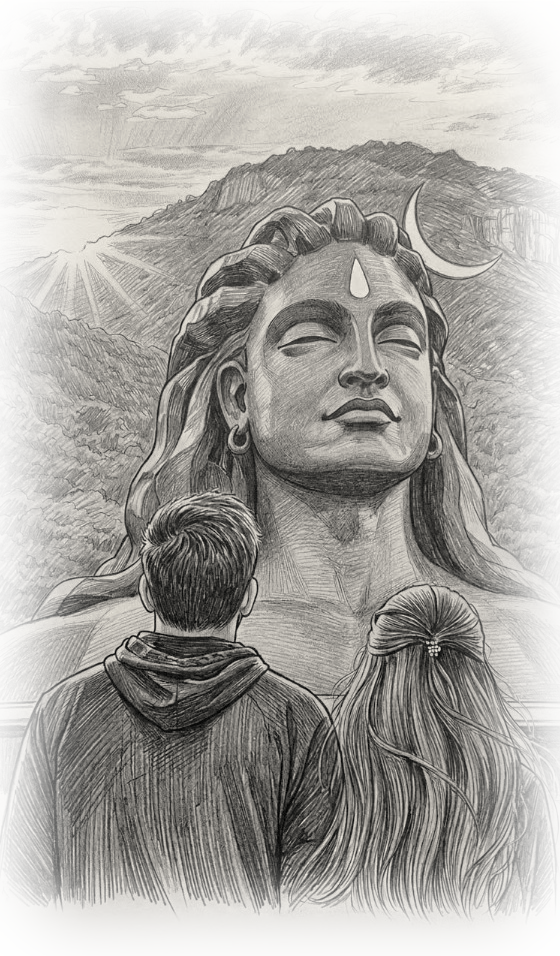
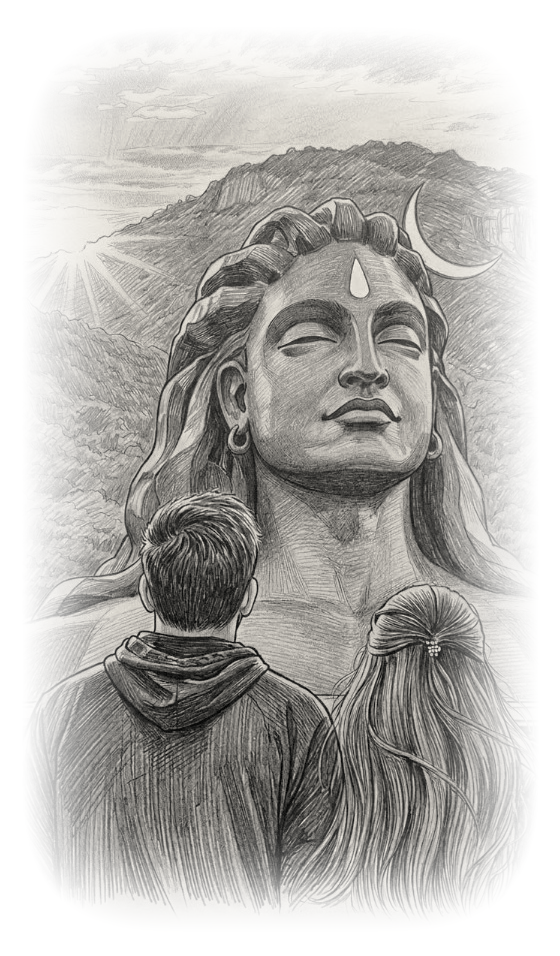
style(theme): remove card border and apply seamless radial-feathered mask to Adiyogi sketch

Changed region(s): [[0.0, 0.0, 1.0, 0.9707], [0.0304, 0.0, 0.3339, 0.2123]]

diff --git a/components/invite/aswgee.tsx b/components/invite/aswgee.tsx
@@ -938,41 +938,46 @@ export function AswgeeTheme({ invite }: { invite?: InviteData }) {
                   </p>
                 </div>
 
-                {/* SACRED ADIYOGI BLESSING & DEVOTIONAL ART MURAL */}
-                <div className="w-full max-w-[440px] my-8 py-5 px-3 sm:px-5 rounded-2xl bg-gradient-to-b from-[#FAF5EA]/90 via-[#F7EFE1]/80 to-[#FAF5EA]/90 border border-[#D4AF37]/45 shadow-[0_10px_35px_rgba(44,37,32,0.08)] flex flex-col items-center text-center relative overflow-hidden backdrop-blur-sm">
-                  {/* Subtle decorative radial background glow */}
-                  <div className="absolute top-0 inset-x-0 h-28 bg-gradient-to-b from-[#FFFDF8] to-transparent pointer-events-none opacity-60" />
-
+                {/* SACRED ADIYOGI BLESSING & DEVOTIONAL ART MURAL (BORDERLESS & SEAMLESSLY FEATHERED) */}
+                <div className="w-full max-w-[440px] my-10 flex flex-col items-center text-center relative select-none">
                   {/* Auspicious Crescent & Trishul Motif Header */}
-                  <div className="flex items-center gap-2 mb-1.5 z-10">
-                    <div className="w-7 h-[1px] bg-gradient-to-r from-transparent via-[#D4AF37] to-[#C5A059]" />
-                    <span className="font-['Cinzel'] text-[9.5px] sm:text-[10px] tracking-[0.35em] text-[#8C6D23] uppercase font-bold">
+                  <div className="flex items-center gap-2.5 mb-1.5">
+                    <div className="w-8 h-[1px] bg-gradient-to-r from-transparent via-[#D4AF37] to-[#C5A059]" />
+                    <span className="font-['Cinzel'] text-[9.5px] sm:text-[10px] tracking-[0.38em] text-[#8C6D23] uppercase font-bold">
                       Divine Grace
                     </span>
-                    <div className="w-7 h-[1px] bg-gradient-to-l from-transparent via-[#D4AF37] to-[#C5A059]" />
+                    <div className="w-8 h-[1px] bg-gradient-to-l from-transparent via-[#D4AF37] to-[#C5A059]" />
                   </div>
 
-                  <h3 className="font-['Cormorant_Garamond'] text-2xl sm:text-3xl italic text-[#7C1425] font-semibold tracking-wide leading-snug mb-1 z-10">
+                  <h3 className="font-['Cormorant_Garamond'] text-2xl sm:text-3xl italic text-[#7C1425] font-semibold tracking-wide leading-snug mb-1">
                     Under the Grace of Adiyogi
                   </h3>
 
-                  <div className="w-16 h-[1.2px] bg-gradient-to-r from-transparent via-[#D4AF37] to-transparent my-1.5 z-10" />
+                  <div className="w-16 h-[1.2px] bg-gradient-to-r from-transparent via-[#D4AF37] to-transparent my-1.5" />
 
-                  {/* Masterfully Feathered Artwork Container */}
-                  <div className="relative w-full max-w-[340px] sm:max-w-[370px] aspect-[560/956] my-2 select-none z-10 group">
+                  {/* 100% Borderless, Double-Feathered Artwork */}
+                  <div
+                    className="relative w-full max-w-[340px] sm:max-w-[370px] aspect-[560/956] my-3 select-none"
+                    style={{
+                      maskImage:
+                        "radial-gradient(ellipse 90% 86% at 50% 50%, rgba(0,0,0,1) 50%, rgba(0,0,0,0) 100%)",
+                      WebkitMaskImage:
+                        "radial-gradient(ellipse 90% 86% at 50% 50%, rgba(0,0,0,1) 50%, rgba(0,0,0,0) 100%)",
+                    }}
+                  >
                     <img
                       src="/ashwageetham/adiyogi_sketch_feathered.png"
                       alt="Aswanth & Geethanjali seeking the blessings of Adiyogi Shiva"
-                      className="w-full h-full object-contain filter contrast-[1.02] brightness-[1.01] transition-transform duration-700 group-hover:scale-[1.015]"
+                      className="w-full h-full object-contain filter contrast-[1.02] brightness-[1.01]"
                     />
                   </div>
 
                   {/* Devotional Inscription & Sacred Mantra */}
-                  <div className="z-10 mt-1 max-w-[350px]">
+                  <div className="mt-1 max-w-[350px]">
                     <p className="font-serif italic text-xs sm:text-[13px] text-[#4A382A] leading-relaxed">
                       &ldquo;Under the calm and eternal presence of Adiyogi, seeking divine blessings for a lifelong journey filled with serenity, strength, and boundless love.&rdquo;
                     </p>
-                    <span className="block font-['Cinzel'] text-[9px] tracking-[0.28em] uppercase text-[#A08157] font-semibold mt-2">
+                    <span className="block font-['Cinzel'] text-[9px] tracking-[0.28em] uppercase text-[#A08157] font-semibold mt-2.5">
                       Om Namah Shivaya
                     </span>
                   </div>
